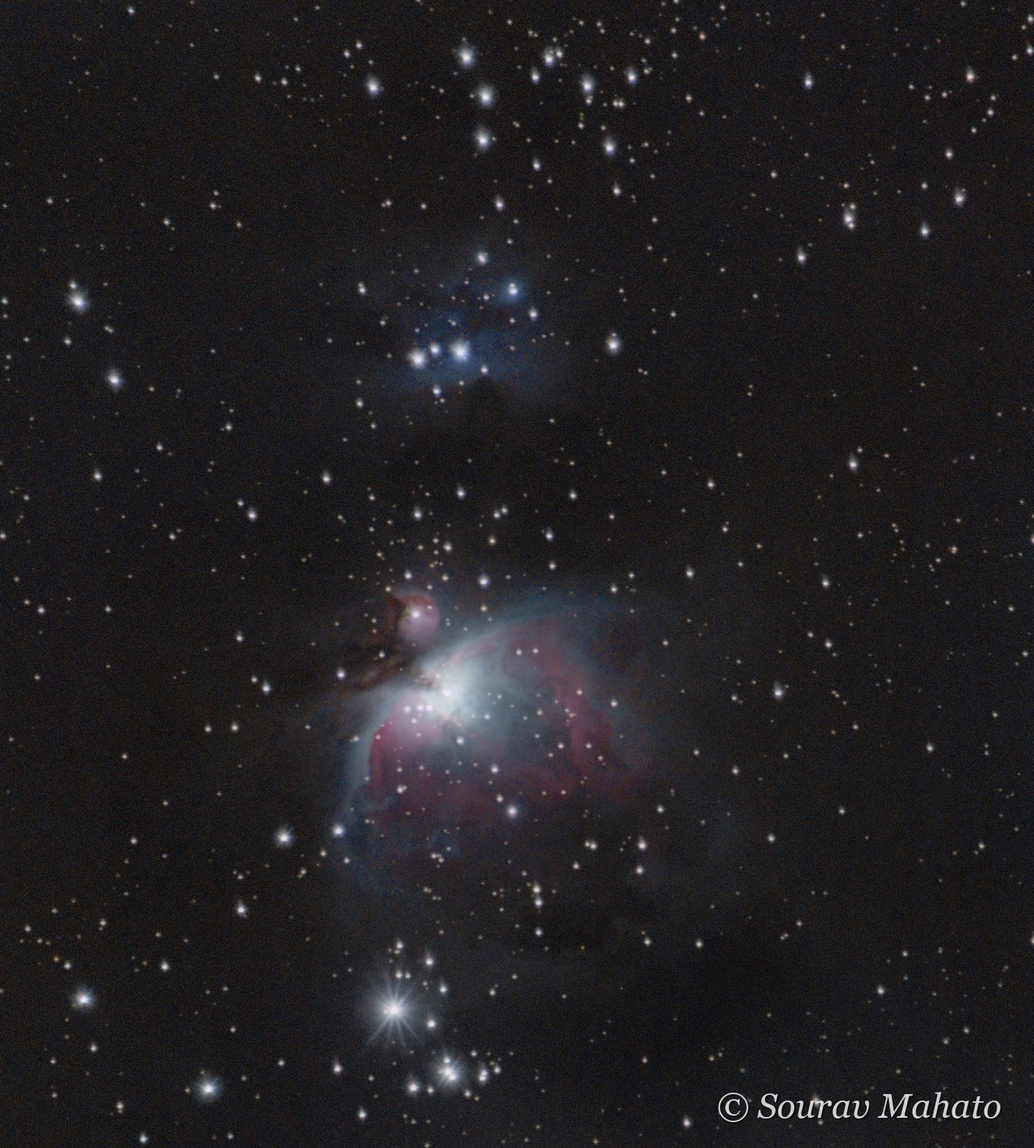
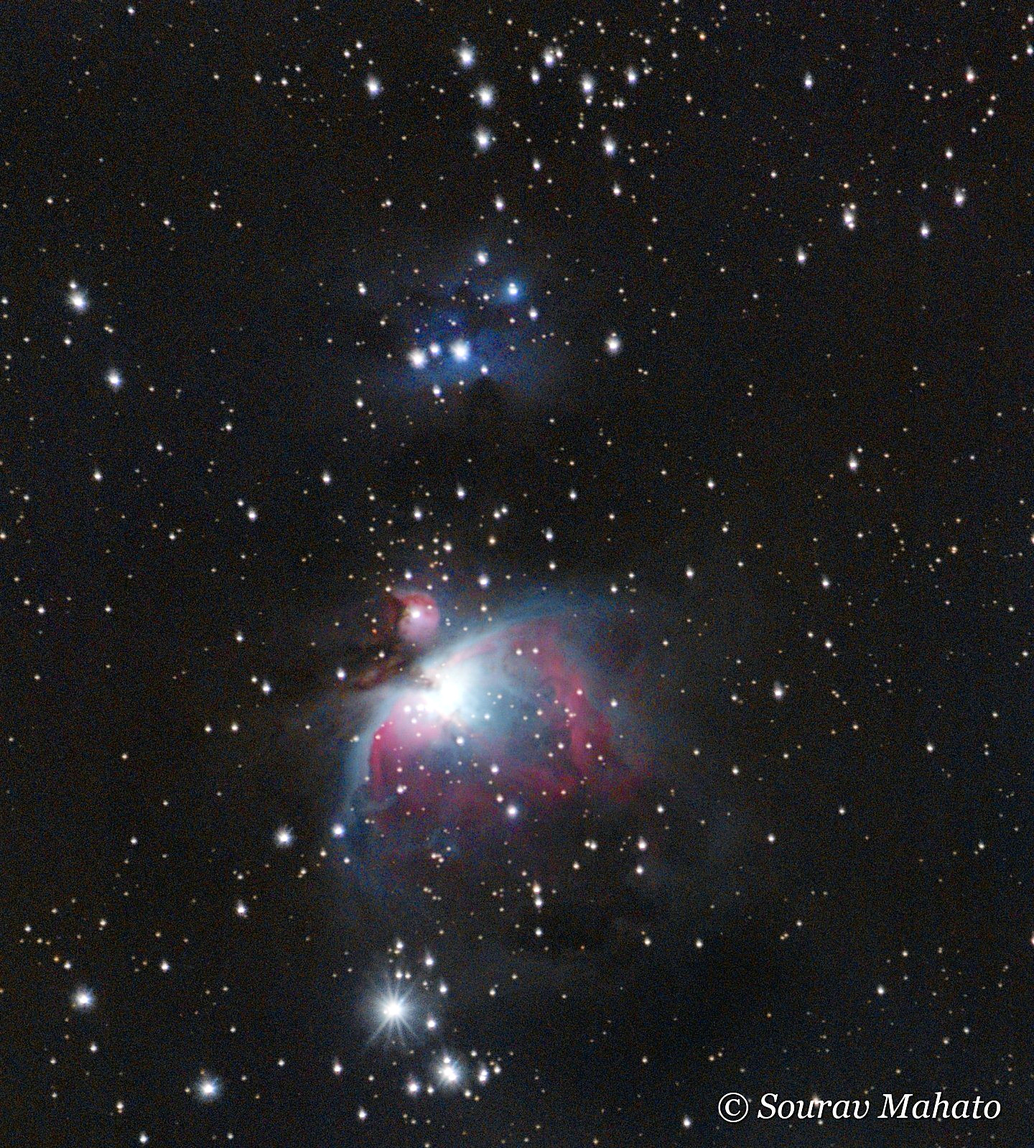
Use Orion Nebula star-field image for showreel tile and first Orion note; enhance contrast and saturation

diff --git a/src/data/showreel.ts b/src/data/showreel.ts
@@ -2,7 +2,7 @@
 // The first tile is the big one. Swap a tile by changing its import and link.
 import type { ImageMetadata } from 'astro';
 import fpvPoster from '../assets/images/fpv-cinematics/campus-flyover.jpg';
-import orion from '../assets/images/astrophotography/orion-nebula-m42.jpg';
+import orion from '../assets/images/astrophotography/orion-nebula-star-field.jpg';
 import fpvBuild from '../assets/images/projects/fpv-drone/lineup.jpg';
 import moonLamp from '../assets/images/3d-printing/lithophane-moon-lit.jpg';
 import chhau from '../assets/images/festivals-and-rituals/chhau-pink-headdress.jpg';
@@ -19,7 +19,7 @@ export interface Tile {
 
 export const showreel: Tile[] = [
   { img: fpvPoster, video: '/videos/fpv/campus-flyover.mp4', label: 'FPV cinematics', title: 'Flying low over campus', href: '/hobbies/fpv-cinematics' },
-  { img: orion, label: 'Astrophotography', title: 'Orion Nebula (M42)', href: '/hobbies/astrophotography' },
+  { img: orion, label: 'Astrophotography', title: 'Orion Nebula in a rich star field', href: '/hobbies/astrophotography' },
   { img: fpvBuild, label: 'Build', title: 'My scratch-built FPV drone', href: '/projects/fpv-drone' },
   { img: moonLamp, label: '3D printing', title: 'A printed Moon lamp', href: '/hobbies/3d-printing/lithophanes' },
   { img: chhau, label: 'Photography', title: 'Chhau dancer', href: '/hobbies/photography/festivals-and-rituals' },
